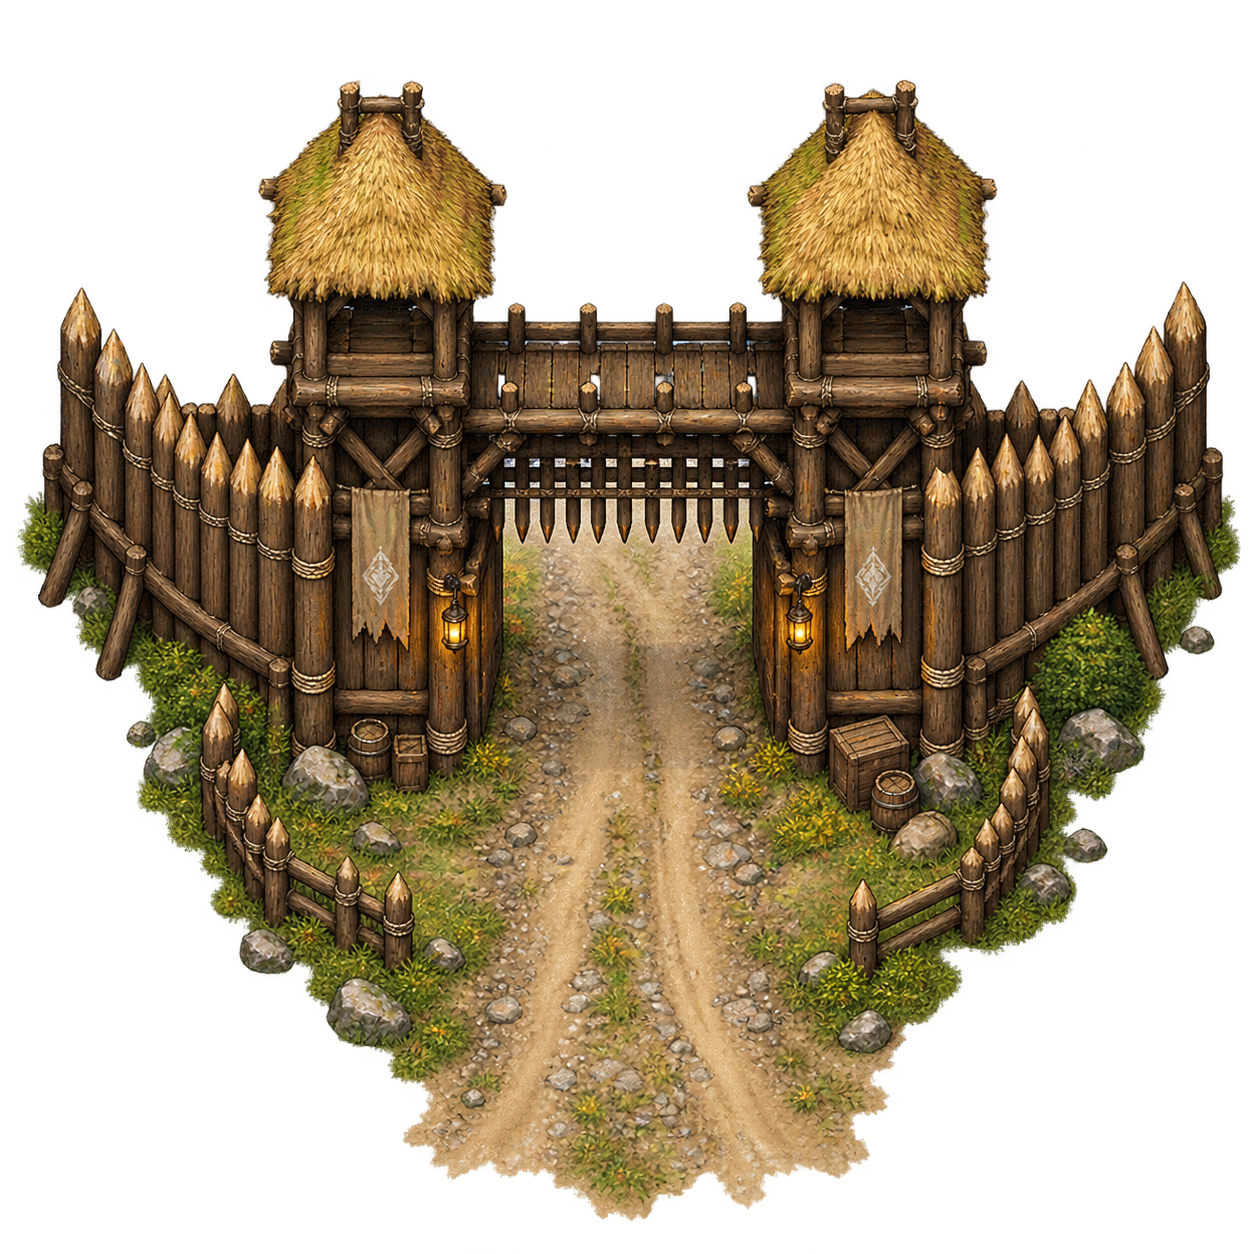
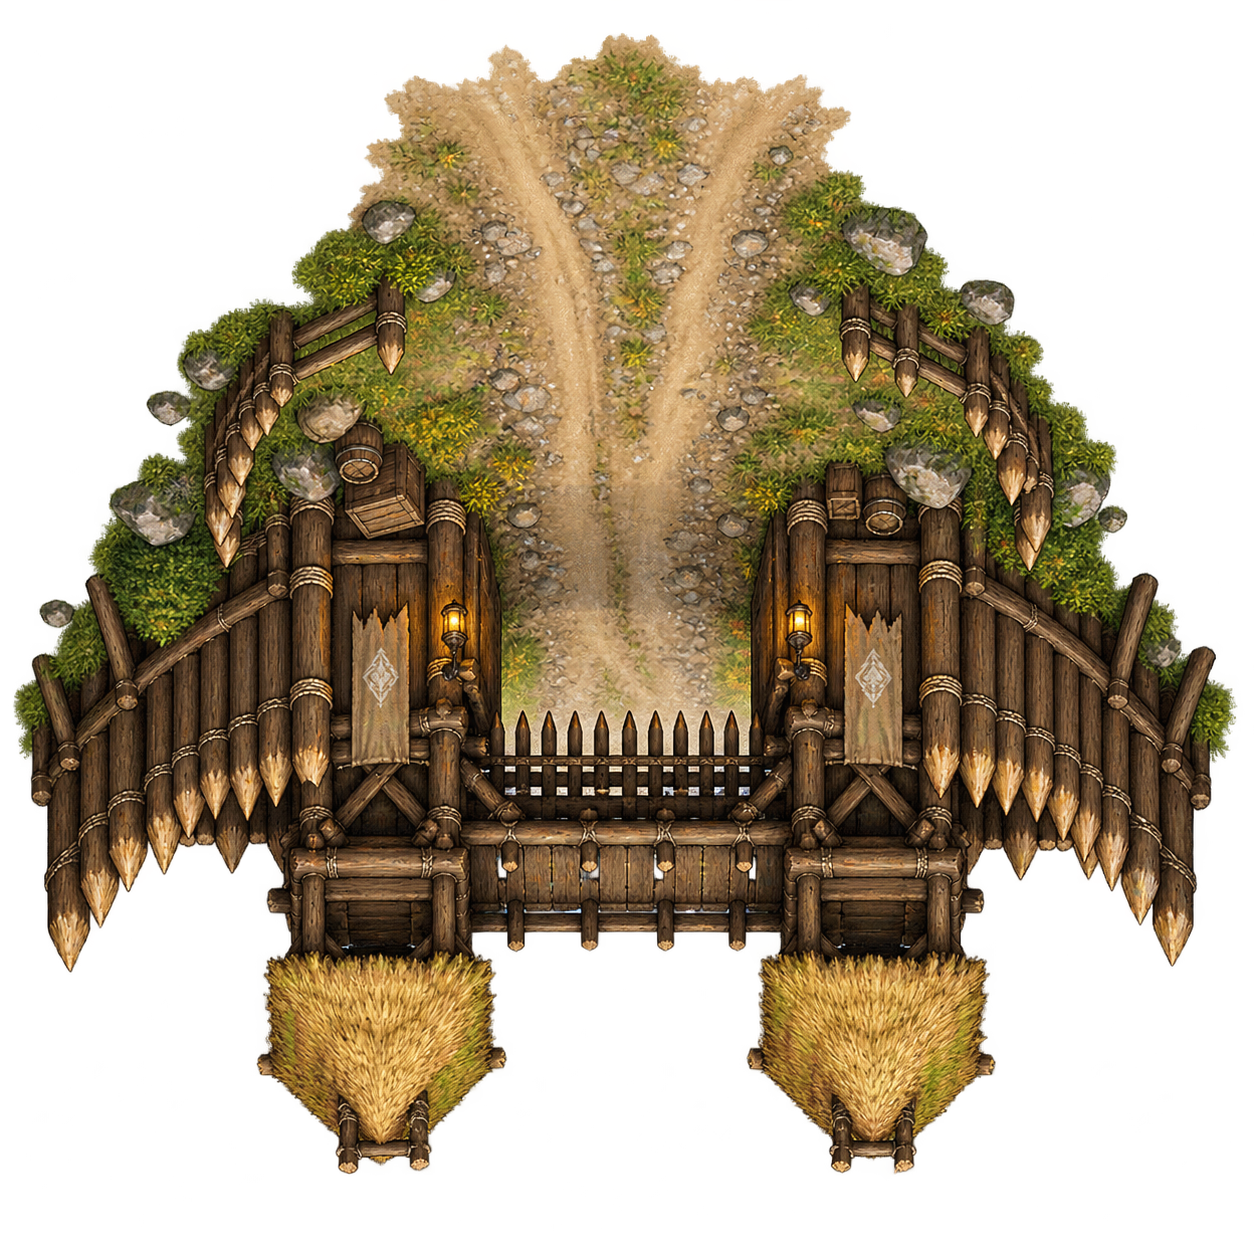
added building assets

diff --git a/src/components/MapEditor.vue b/src/components/MapEditor.vue
@@ -2,7 +2,7 @@
 import { computed, ref, watch } from 'vue'
 import { useI18n } from 'vue-i18n'
 import sourceMap from '../data/town-map.json'
-import { buildingCells } from '../town-grid'
+import { buildingCells, gateCells } from '../town-grid'
 import { validateTownMap } from '../map-validation'
 import TownArt from './TownArt.vue'
 
@@ -34,6 +34,7 @@ const gateTools = ['northGate', 'eastGate', 'gate', 'westGate']
 const decorTools = ['well', 'crates', 'flowers']
 const isTileTool = computed(() => terrainTools.some(([code]) => code === tool.value))
 const isBuildingTool = computed(() => buildingTools.includes(tool.value))
+const isGateTool = computed(() => gateTools.includes(tool.value))
 const problems = computed(() => validateTownMap(map.value))
 const imageSource = computed({
   get() {
@@ -51,12 +52,14 @@ const imageSource = computed({
   },
 })
 const preview = computed(() => {
-  if (!isBuildingTool.value || !dragStart.value) return null
+  if ((!isBuildingTool.value && !isGateTool.value) || !dragStart.value) return null
   const end = dragEnd.value || dragStart.value
   const x = Math.min(dragStart.value.x, end.x)
   const y = Math.min(dragStart.value.y, end.y)
-  const width = Math.min(4, Math.max(2, Math.abs(end.x - dragStart.value.x) + 1))
-  const height = Math.min(4, Math.max(2, Math.abs(end.y - dragStart.value.y) + 1))
+  const spanX = Math.abs(end.x - dragStart.value.x) + 1
+  const spanY = Math.abs(end.y - dragStart.value.y) + 1
+  const width = isBuildingTool.value ? Math.min(4, Math.max(2, spanX)) : spanX
+  const height = isBuildingTool.value ? Math.min(4, Math.max(2, spanY)) : spanY
   return { x: Math.min(30 - width, x), y: Math.min(30 - height, y), width, height }
 })
 watch(map, (value) => localStorage.setItem(draftKey, JSON.stringify(value)), { deep: true })
@@ -97,16 +100,6 @@ function paint(x, y) {
     if (old) removeBuilding(old)
     setTile(x, y, tool.value)
     refreshDoors()
-  } else if (gateTools.includes(tool.value)) {
-    const gate = map.value.gates.find((item) => item.id === tool.value)
-    if (buildingAt(x, y)) { status.value = t('mapEditor.clearBuilding'); return }
-    if (map.value.gates.some((item) => item.id !== tool.value && item.x === x && item.y === y)) { status.value = t('mapEditor.occupied'); return }
-    if (gate) {
-      setTile(gate.x, gate.y, 'W')
-      gate.x = x; gate.y = y
-    }
-    setTile(x, y, 'G')
-    refreshDoors()
   } else if (tool.value === 'door') {
     if (!['R', 'G', 'B'].includes(tileAt(x, y))) { status.value = t('mapEditor.doorRoad'); return }
     for (const [dx, dy, side] of [[0,1,'north'],[-1,0,'east'],[0,-1,'south'],[1,0,'west']]) {
@@ -121,6 +114,27 @@ function paint(x, y) {
     map.value.decor = map.value.decor.filter((item) => item.x !== x || item.y !== y)
     map.value.decor.push({ type: tool.value, x, y })
   }
+}
+function placeGate(bounds) {
+  const existing = map.value.gates.find((item) => item.id === tool.value)
+  const next = { ...existing, id: tool.value, ...bounds }
+  const cells = gateCells(next)
+  const previous = existing ? gateCells(existing) : []
+  const previousKeys = new Set(previous.map((cell) => `${cell.x},${cell.y}`))
+  const collision = cells.some((cell) => {
+    if (buildingAt(cell.x, cell.y)) return true
+    if (map.value.gates.some((gate) => gate.id !== tool.value && gateCells(gate).some((part) => part.x === cell.x && part.y === cell.y))) return true
+    return !previousKeys.has(`${cell.x},${cell.y}`) && !['.', 'R', 'W', 'G'].includes(tileAt(cell.x, cell.y))
+  })
+  if (collision) { status.value = t('mapEditor.occupied'); return }
+  const previousTiles = new Map((existing?.underTiles || []).map((cell) => [`${cell.x},${cell.y}`, cell.tile]))
+  for (const cell of previous) setTile(cell.x, cell.y, previousTiles.get(`${cell.x},${cell.y}`) || 'W')
+  next.underTiles = cells.map((cell) => ({ ...cell, tile: tileAt(cell.x, cell.y) }))
+  for (const cell of cells) setTile(cell.x, cell.y, 'G')
+  if (existing) Object.assign(existing, next)
+  else map.value.gates.push(next)
+  refreshDoors()
+  status.value = t('mapEditor.gatePlaced')
 }
 function placeBuilding(bounds) {
   const { x, y, width, height } = bounds
@@ -150,13 +164,13 @@ function pointerDown(event) {
   event.currentTarget.setPointerCapture(event.pointerId)
   const cell = cellFromEvent(event)
   dragStart.value = cell; dragEnd.value = cell; hoverCell.value = cell; status.value = ''
-  if (!isBuildingTool.value) paint(cell.x, cell.y)
+  if (!isBuildingTool.value && !isGateTool.value) paint(cell.x, cell.y)
 }
 function pointerMove(event) {
   const cell = cellFromEvent(event)
   hoverCell.value = cell
   if (!dragStart.value) return
-  if (isBuildingTool.value) { dragEnd.value = cell; return }
+  if (isBuildingTool.value || isGateTool.value) { dragEnd.value = cell; return }
   const from = dragEnd.value || cell
   const steps = Math.max(Math.abs(cell.x - from.x), Math.abs(cell.y - from.y))
   for (let index = 1; index <= steps; index++) {
@@ -168,6 +182,7 @@ function pointerUp(event) {
   if (!dragStart.value) return
   dragEnd.value = cellFromEvent(event)
   if (isBuildingTool.value && preview.value) placeBuilding(preview.value)
+  else if (isGateTool.value && preview.value) placeGate(preview.value)
   dragStart.value = null; dragEnd.value = null
 }
 function resetDraft() {
@@ -214,7 +229,7 @@ async function saveJson() {
       <label v-if="isBuildingTool">{{ t('mapEditor.shape') }} <select v-model="shape"><option value="rectangle">{{ t('mapEditor.rectangle') }}</option><option value="L">{{ t('mapEditor.lShape') }}</option></select></label>
       <label v-if="isTileTool || isBuildingTool || tool === 'cellImage'">{{ t('mapEditor.imageSource') }} <input v-model="imageSource" type="text" :placeholder="t('mapEditor.imagePlaceholder')" /></label>
     </div>
-    <p class="map-editor-help">{{ isBuildingTool ? t('mapEditor.buildingHelp') : t('mapEditor.paintHelp') }}</p>
+    <p class="map-editor-help">{{ isBuildingTool ? t('mapEditor.buildingHelp') : isGateTool ? t('mapEditor.gateHelp') : t('mapEditor.paintHelp') }}</p>
     <div class="map-editor-canvas">
       <TownArt :map="map" />
       <div class="map-editor-hit" @pointerdown="pointerDown" @pointermove="pointerMove" @pointerup="pointerUp" @pointercancel="pointerUp" @pointerleave="hoverCell = null"></div>

diff --git a/src/components/TownArt.vue b/src/components/TownArt.vue
@@ -28,24 +28,21 @@ const mapSize = computed(() => ({ width: props.map.columns * props.map.cellSize,
       </g>
     </g>
     <image v-for="(image, index) in map.cellImages || []" :key="'cell-image-' + index" :href="image.src" :x="image.x * map.cellSize" :y="image.y * map.cellSize" :width="map.cellSize" :height="map.cellSize" preserveAspectRatio="xMidYMid slice" />
+    <rect :width="mapSize.width" :height="mapSize.height" fill="url(#town-grid)" pointer-events="none" />
     <g v-for="building in map.buildings" :key="building.id" :class="['town-building', 'town-building-' + building.kind]">
-      <path class="town-roof" :d="buildingOutline(building, map.cellSize)" />
+      <path v-if="!building.imageSrc" class="town-roof" :d="buildingOutline(building, map.cellSize)" />
       <image v-if="building.imageSrc" :href="building.imageSrc" :x="building.x * map.cellSize" :y="building.y * map.cellSize" :width="building.width * map.cellSize" :height="building.height * map.cellSize" :clip-path="'url(#town-building-clip-' + building.id + ')'" preserveAspectRatio="xMidYMid slice" />
-      <rect v-if="building.door.side === 'south'" :x="building.door.x * 40 + 14" :y="building.door.y * 40 - 7" width="12" height="9" fill="#5a3b28" />
-      <rect v-else-if="building.door.side === 'north'" :x="building.door.x * 40 + 14" :y="(building.door.y + 1) * 40 - 2" width="12" height="9" fill="#5a3b28" />
-      <rect v-else-if="building.door.side === 'east'" :x="building.door.x * 40 - 7" :y="building.door.y * 40 + 14" width="9" height="12" fill="#5a3b28" />
-      <rect v-else :x="(building.door.x + 1) * 40 - 2" :y="building.door.y * 40 + 14" width="9" height="12" fill="#5a3b28" />
+      <circle v-if="building.door" class="town-entrance-marker" :cx="(building.door.x + .5) * map.cellSize" :cy="(building.door.y + .5) * map.cellSize" r="5" />
     </g>
-    <g v-for="gate in map.gates" :key="gate.id" :transform="'translate(' + gate.x * 40 + ' ' + gate.y * 40 + ')'" class="town-gate">
-      <rect x="4" y="4" width="32" height="32" fill="#a08458" stroke="#5d4c37" stroke-width="2" />
-      <path v-if="gate.direction === 'north' || gate.direction === 'south'" d="M16 4v32m8-32v32" stroke="#55422e" stroke-width="3" />
-      <path v-else d="M4 16h32M4 24h32" stroke="#55422e" stroke-width="3" />
+    <g v-for="gate in map.gates" :key="gate.id" :transform="'translate(' + gate.x * map.cellSize + ' ' + gate.y * map.cellSize + ')'" class="town-gate">
+      <rect x="4" y="4" :width="(gate.width ?? 1) * map.cellSize - 8" :height="(gate.height ?? 1) * map.cellSize - 8" fill="#a08458" stroke="#5d4c37" stroke-width="2" />
+      <path v-if="gate.direction === 'north' || gate.direction === 'south'" :d="`M${(gate.width ?? 1) * map.cellSize / 2 - 4} 4V${(gate.height ?? 1) * map.cellSize - 4} M${(gate.width ?? 1) * map.cellSize / 2 + 4} 4V${(gate.height ?? 1) * map.cellSize - 4}`" stroke="#55422e" stroke-width="3" />
+      <path v-else :d="`M4 ${(gate.height ?? 1) * map.cellSize / 2 - 4}H${(gate.width ?? 1) * map.cellSize - 4} M4 ${(gate.height ?? 1) * map.cellSize / 2 + 4}H${(gate.width ?? 1) * map.cellSize - 4}`" stroke="#55422e" stroke-width="3" />
     </g>
     <g v-for="(decor, index) in map.decor" :key="'decor-' + index" :transform="'translate(' + (decor.x + .5) * 40 + ' ' + (decor.y + .5) * 40 + ')'" class="town-decor">
       <template v-if="decor.type === 'well'"><circle r="13" fill="#b1a57b" stroke="#675e4c" stroke-width="3" /><circle r="7" fill="#6b9b9d" /></template>
       <template v-else-if="decor.type === 'crates'"><rect x="-12" y="-9" width="11" height="11" fill="#a17d50" stroke="#6d5338" /><rect x="2" y="-4" width="11" height="11" fill="#a17d50" stroke="#6d5338" /></template>
       <template v-else><circle cx="-6" r="4" fill="#9b9271" /><circle cx="6" cy="4" r="4" fill="#9b9271" /></template>
     </g>
-    <rect :width="mapSize.width" :height="mapSize.height" fill="url(#town-grid)" pointer-events="none" />
   </svg>
 </template>

diff --git a/src/map-validation.js b/src/map-validation.js
@@ -1,4 +1,4 @@
-import { buildingCells } from './town-grid.js'
+import { buildingCells, gateCells } from './town-grid.js'
 
 const requiredBuildings = ['smithy', 'market', 'square', 'tavern', 'chapel', 'barracks']
 const requiredGates = ['northGate', 'eastGate', 'gate', 'westGate']
@@ -58,12 +58,25 @@ export function validateTownMap(map) {
   for (const id of requiredBuildings) if (!ids.has(id)) errors.push(`Missing building: ${id}`)
   for (let y = 0; y < 30; y++) for (let x = 0; x < 30; x++) if (at(x, y) === 'H' && !occupied.has(cellKey(x, y))) errors.push(`Unassigned building cell: ${x},${y}`)
   const gateIds = new Set()
+  const gateOccupied = new Set()
   for (const gate of gates) {
     if (gateIds.has(gate.id)) errors.push(`Duplicate gate: ${gate.id}`)
     gateIds.add(gate.id)
-    if (at(gate.x, gate.y) !== 'G') errors.push(`Gate tile missing: ${gate.id}`)
+    const width = gate.width ?? 1, height = gate.height ?? 1
+    if (![gate.x, gate.y, width, height].every(Number.isInteger) || width < 1 || height < 1 || gate.x < 0 || gate.y < 0 || gate.x + width > 30 || gate.y + height > 30) {
+      errors.push(`Invalid gate footprint: ${gate.id}`)
+      continue
+    }
+    for (const cell of gateCells(gate)) {
+      const key = cellKey(cell.x, cell.y)
+      if (gateOccupied.has(key) || occupied.has(key)) errors.push(`Gate overlap at ${key}`)
+      gateOccupied.add(key)
+      if (at(cell.x, cell.y) !== 'G') errors.push(`Gate tile missing: ${gate.id}`)
+    }
+    if (gate.underTiles != null && (!Array.isArray(gate.underTiles) || gate.underTiles.some((cell) => !Number.isInteger(cell.x) || !Number.isInteger(cell.y) || typeof cell.tile !== 'string' || !validTiles.has(cell.tile)))) errors.push(`Invalid gate backing tiles: ${gate.id}`)
   }
   for (const id of requiredGates) if (!gateIds.has(id)) errors.push(`Missing gate: ${id}`)
+  for (let y = 0; y < 30; y++) for (let x = 0; x < 30; x++) if (at(x, y) === 'G' && !gateOccupied.has(cellKey(x, y))) errors.push(`Unassigned gate cell: ${x},${y}`)
   if (!map.tileImages || Object.values(map.tileImages).some((src) => src != null && typeof src !== 'string')) errors.push('Invalid tile image sources')
   if (!Array.isArray(map.cellImages) || map.cellImages.some((image) => !Number.isInteger(image.x) || !Number.isInteger(image.y) || image.x < 0 || image.x >= 30 || image.y < 0 || image.y >= 30 || typeof image.src !== 'string')) errors.push('Invalid cell image sources')
   const roads = new Set()

diff --git a/src/routes.js b/src/routes.js
@@ -1,5 +1,5 @@
 import townMap from './data/town-map.json'
-import { buildingCells } from './town-grid'
+import { buildingCells, gateCells } from './town-grid'
 
 export const mapSize = { width: townMap.columns * townMap.cellSize, height: townMap.rows * townMap.cellSize }
 export const mapGrid = townMap
@@ -29,7 +29,10 @@ for (const id of Object.keys(roadNodes)) {
 }
 const entrances = Object.fromEntries([
   ...townMap.buildings.filter((building) => building.kind !== 'house').map((building) => [building.id, building.door]),
-  ...townMap.gates.map((gate) => [gate.id, gate]),
+  ...townMap.gates.map((gate) => {
+    const cells = gateCells(gate)
+    return [gate.id, cells[Math.floor(cells.length / 2)]]
+  }),
 ])
 export const placePoint = (id) => entrances[id] ? cellPoint(entrances[id].x, entrances[id].y) : null
 export const placeMarkerPoint = (id) => {
@@ -41,6 +44,8 @@ export const placeMarkerPoint = (id) => {
       y: cells.reduce((sum, cell) => sum + cell.y + 0.5, 0) / cells.length * townMap.cellSize,
     }
   }
+  const gate = townMap.gates.find((item) => item.id === id)
+  if (gate) return { x: (gate.x + (gate.width ?? 1) / 2) * townMap.cellSize, y: (gate.y + (gate.height ?? 1) / 2) * townMap.cellSize }
   return placePoint(id)
 }
 const distance = (a, b) => Math.hypot(a.x - b.x, a.y - b.y)
@@ -78,8 +83,12 @@ export function routeFromPoint(point, destinationId) {
   if (samePoint(point, destination)) return { points: [point], minutes: 0 }
   const next = pathsTo(destinationId)
   let best = null
+  // Start on the nearest road segment. Otherwise a distant segment can make
+  // a diagonal shortcut look shorter than following the street grid.
+  const nearest = Math.min(...roadSegments.map((segment) => distance(point, projectedPoint(point, segment.from, segment.to))))
   for (const segment of roadSegments) {
     const projection = projectedPoint(point, segment.from, segment.to)
+    if (distance(point, projection) > nearest + 0.001) continue
     for (const endpoint of [segment.from, segment.to]) {
       const endpointId = key(Math.floor(endpoint.x / townMap.cellSize), Math.floor(endpoint.y / townMap.cellSize))
       if (!(endpointId in next)) continue

diff --git a/src/style.css b/src/style.css
@@ -189,6 +189,7 @@
 .town-art{object-fit:fill}
 .town-tile-\.{fill:#d2c7a2}.town-tile-R,.town-tile-G{fill:#bea782}.town-tile-H{fill:#c5b68e}.town-tile-W{fill:#c7b994}.town-tile-F{fill:#8da481}.town-tile-M{fill:#aeb1a2}.town-tile-A{fill:#c2b37e}.town-tile-\~{fill:#739ca1}.town-tile-B{fill:#739ca1}
 .town-building .town-roof{fill:#9b7b59;stroke:#624a39;stroke-width:3;filter:drop-shadow(2px 3px 2px #574c3977)}
+.town-entrance-marker{fill:#f4e4ae;stroke:#4b4934;stroke-width:2;filter:drop-shadow(0 1px 2px #24281faa)}
 .town-building-smithy .town-roof{fill:#7e6553}.town-building-market .town-roof{fill:#b39565}.town-building-square .town-roof{fill:#d7c394;stroke:#887753}.town-building-tavern .town-roof{fill:#916c50}.town-building-chapel .town-roof{fill:#a8a48a}.town-building-barracks .town-roof{fill:#827b63}
 @media(max-width:570px){.map-canvas{aspect-ratio:1;min-height:0}.town-art{object-fit:fill}}
 

diff --git a/src/town-grid.js b/src/town-grid.js
@@ -11,6 +11,17 @@ export function buildingCells(building) {
   return cells
 }
 
+// Older saved maps omit gate dimensions; those gates occupy one cell.
+export function gateCells(gate) {
+  const cells = []
+  for (let row = 0; row < (gate.height ?? 1); row++) {
+    for (let col = 0; col < (gate.width ?? 1); col++) {
+      cells.push({ x: gate.x + col, y: gate.y + row })
+    }
+  }
+  return cells
+}
+
 export function buildingOutline(building, cellSize) {
   const cells = buildingCells(building)
   const filled = new Set(cells.map(({ x, y }) => `${x},${y}`))

diff --git a/README.md b/README.md
@@ -45,7 +45,7 @@ Radial action circles unfold quickly from each location marker. They are icon-on
 
 - src/data/quests.json defines quest IDs, prerequisites, priorities, display keys, objectives, and tutorial clouds. src/data/unlocks.json maps each playable place, action, job, forge station, and HUD control to required completed quests.
 
-- src/data/town-map.json holds the 30x30 cell grid and road network, road tiles and optional image paths, 2x2 to 4x4 building footprints (including optional L-shaped `shape` rows), door coordinates, gates, and decoration. src/routes.js calculates paths and reroutes. src/data/travel-events.json defines travel event chances and the scripted bandit tick.
+- src/data/town-map.json holds the 30x30 cell grid and road network, road tiles and optional image paths, 2x2 to 4x4 building footprints (including optional L-shaped `shape` rows), door coordinates, one-cell or rectangular multi-cell gates, and decoration. Drag the gate tool across cells to size a gate; older gate entries without dimensions remain one cell. src/routes.js calculates paths and reroutes. src/data/travel-events.json defines travel event chances and the scripted bandit tick.
 
 - src/progression.js evaluates those requirements and derives the current story stage from quest progress.
 
